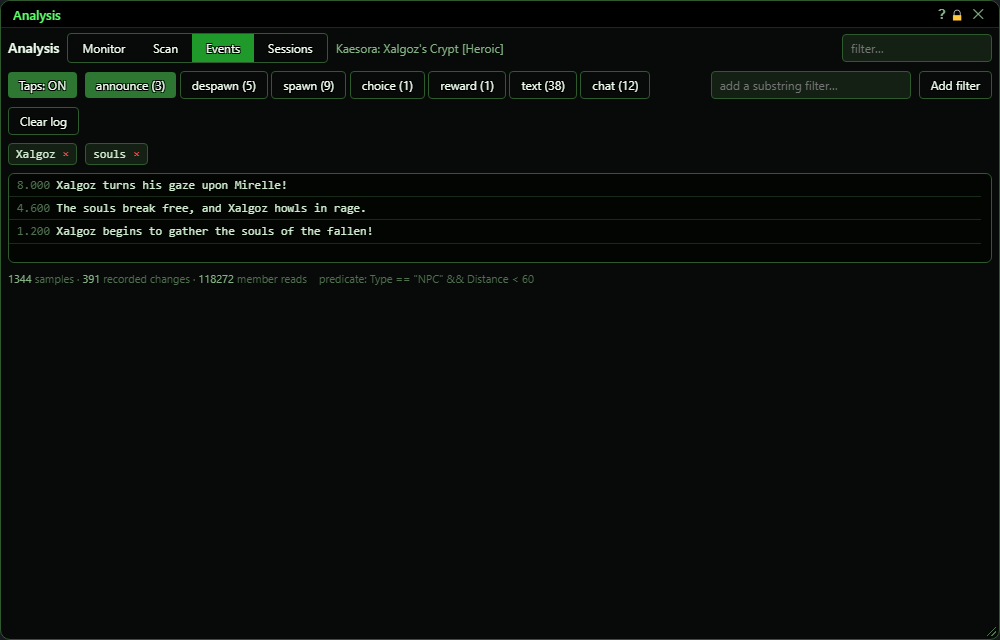
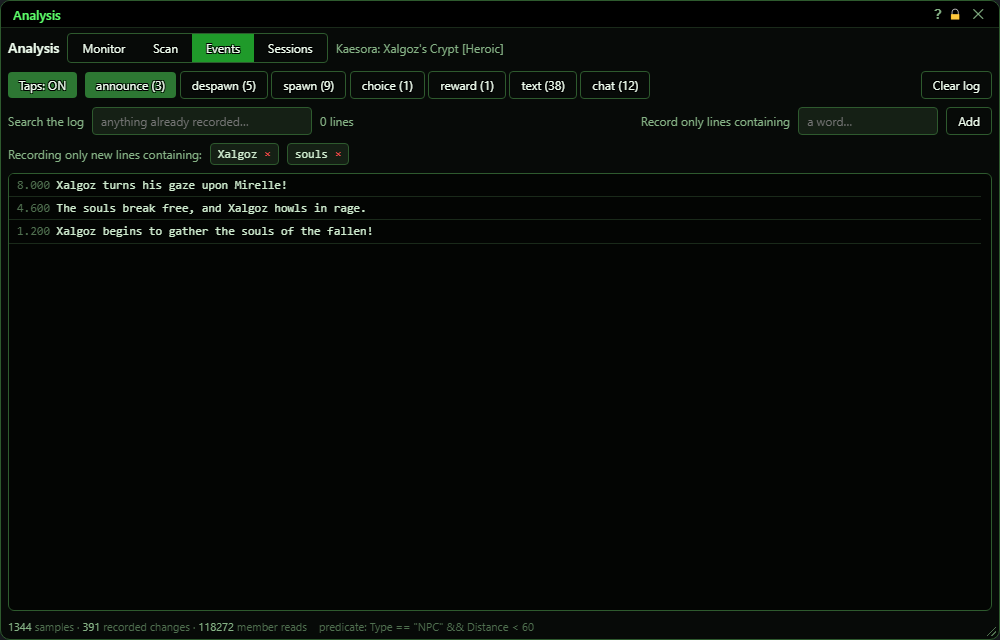
New OgreBot docs: publish the "OgreBot" section (EQ2/bot/)
Generated output from the private docs source (Scripts 7daebb8ca+uncommitted); linted for gated names, mkdocs build --strict and link check green.

diff --git a/docs/EQ2/bot/windows/analysis.md b/docs/EQ2/bot/windows/analysis.md
@@ -10,13 +10,16 @@
 >
 > **What you can do here**
 >
-> - **Monitor**: add actors (+ Target), turn **Monitoring** on, then click a moment in Timestamps to see everything that changed then. The x on an actor stops watching just that one.
-> - **Scan**: snapshot every actor matching your terms, then click two results to compare them.
-> - **Events**: logs of announcements, spawns, chat and other game events.
+> - **Monitor**: add actors (**+ Target**, or **+ Cursor** and put the mouse on one within 3 seconds), turn **Monitoring** on, then click a moment in Timestamps to see everything that changed then. The x on an actor stops watching just that one.
+> - **Scan**: build terms (type a detail name - it suggests them - pick how to compare, add a value), then **Scan**. Click a result to see all its details; Ctrl+click a second to compare the two. **+ Target** / **+ Cursor** put one actor in the results. **monitor** on a result sends it to the Monitor tab.
+> - **Events**: logs of announcements, spawns, chat and other game events. **Search the log** finds lines already recorded; **Record only lines containing** limits what is recorded from now on.
 > - **Sessions**: save what you recorded to a file, or load an earlier one.
 >
 > **Good to know**
 >
+> - Tick **Keep previous results** to add to the results instead of replacing them. **Add new spawns that match** adds actors as they appear.
+> - Pin a detail (the diamond) to show it as a column on every result.
+> - Right-click any line to copy it, copy all of an actor's details, or remove it. The x on a result or an actor removes just that one.
 > - Closing the window does not stop monitoring. Use `ogre end analysis`.
 > - **Taps** turns the event logs on and off.
 
@@ -47,8 +50,8 @@ Next to the tabs: the zone, scan progress while a scan runs, and the number of s
 | Control | What it does | Default |
 |---|---|---|
 | **Monitoring: ON / Monitoring: off** | Starts or stops recording the actors in the Actors list. While on, each one is read at the sample rate and every change is kept.<br>*Adding actors does not turn this on - press it after adding them.* | off |
-| **+ Target** | Adds your current target to the Actors list.<br>*Up to 24 actors. Nothing happens (a message in the console) with no target, or if it is already listed.* |  |
-| **+ Cursor** | Adds the actor under your mouse cursor to the Actors list.<br>*There is no countdown - see Open questions.* |  |
+| **+ Target** | Adds your current target to the Actors list.<br>*Up to 24 actors. With no target, or one already listed, the window says so in its warning line.* |  |
+| **+ Cursor** | Starts a 3-second countdown on the button ("Hover the actor... 3"); put the mouse on an actor, and when it ends that actor is added to the Actors list.<br>*If nothing is under the mouse when the countdown ends, the window says so.* |  |
 | **actor id (placeholder) + Add** | Adds an actor by its ID number. | empty |
 | **mechanics only** | Hides the always-changing details (location, heading, health, animation and the like) from the Timestamps list, so it shows only moments when something meaningful changed. Display only. | on |
 | **sample … ms** | How often each monitored actor is read, in milliseconds. Lower = finer detail.<br>*A plain text box: type a whole number from 100 to 10000 and press Enter or click away. Anything else puts the box back to the rate in use.* | 250 ms |
@@ -66,23 +69,36 @@ Work from left to right: pick an actor, then a detail or a moment.
 | **Click an actor (Actors list)** | Selects that actor. Its details fill the Members list and its moments fill Timestamps. |
 | **Click a detail (Members list)** | Shows every value that detail has had, with the time, in the History list. |
 | **Click a moment (Timestamps list)** | Fills 'What else changed at that instant' with every detail that changed at that moment. This is the main use of the tool - for example, what the NPC's animation and target were when it started a cast. |
+| **Right-click an actor or any line** | Copy this line; on an actor, Stop watching it. |
 
 ## Scan
 
-A scan takes a one-off snapshot of every actor matching your terms. It runs a little each frame, so a big scan takes a moment.
+Takes a snapshot of every actor that matches your terms - over 80 details each. Click a result to see all its details; Ctrl+click a second result to compare the two. Send any result to the Monitor tab.
 
 [![Scan](../assets/analysis/scan-bar.png)](../assets/analysis/scan-bar.png "Click for full size")
 
 | Control | What it does | Default |
 |---|---|---|
-| **member (e.g. Type) (placeholder)** | The detail to match on, for example Type, Name, Level, Distance, IsNamed.<br>*Must be spelled exactly as the game names it, or the scan fails with a red message.* | empty |
-| **= (the small box)** | How to compare: = (equals), < (less than) or > (more than). For yes/no details, != means 'is not'. | = |
-| **value (placeholder)** | The value to compare against, for example NPC or 60. | empty |
+| **member (e.g. Name) (placeholder)** | The detail to match on. As you type, a list of matching details appears with their kind (text, number, yes/no); click one, or use the arrow keys and Enter. | empty |
+| **contains / is / is not, = < > ≤ ≥ ≠, or TRUE / FALSE** | How to compare, offered to suit the detail: text matches by contains (any case), is, or is not; numbers by = < > ≤ ≥ ≠; a yes/no detail is just TRUE or FALSE, with no value box. | contains for text, = for numbers, TRUE for yes/no |
+| **value (placeholder)** | The value to compare against, for example guard or 60. Enter adds the term. | empty |
 | **Add term** | Adds the term to the list below the bar. All terms must match (they are combined with AND). |  |
 | **× (on a term)** | Removes that term. |  |
-| **Scan / Scan EVERYTHING** | Runs the scan and fills Results. With no terms the button turns red and reads 'Scan EVERYTHING' - pressing it snapshots every actor in the zone.<br>*At most 2000 actors are kept, and the list shows up to 250 of them.* |  |
-| **Clear** | Empties Results and the Diff. |  |
-| **Click two results** | Compares the two actors you clicked, detail by detail, in the Diff list. Only details that differ are shown. A third click starts a new pair. |  |
+| **+ Target** | Puts your current target in the results and shows its details, without changing the terms. |  |
+| **+ Cursor** | Starts a 3-second countdown; the actor under the mouse when it ends goes in the results. |  |
+| **Scan / Scan EVERYTHING** | Runs the scan. With no terms the button turns red and reads 'Scan EVERYTHING' - pressing it snapshots every actor in the zone.<br>*If the scan cannot run, the window says why: the zone has only just loaded (try again in a moment) or a term does not work.* |  |
+| **Clear** | Empties the results. |  |
+| **Keep previous results** | A scan adds to the results instead of replacing them. An actor already listed is updated. | off |
+| **Monitor every result** | Every actor a scan finds is also added to the Monitor tab (up to 24). | off |
+| **Add new spawns that match** | An actor that spawns and matches the terms joins the results about 2 seconds later. | off |
+| **Click a result / Ctrl+click a second** | A click shows every detail of that result on the right. Ctrl+click (or Shift+click) another result compares the two, showing only the details that differ.<br>*The results line shows name, ID, type, level, health and distance, plus any columns you pinned. A line marked monitored is on the Monitor tab. Underneath the count, the window says how many actors could not be read (they despawned during the scan).* |  |
+| **monitor / × (on a result)** | monitor sends that actor to the Monitor tab; × removes it from the results. |  |
+| **Monitor all** | Sends every result to the Monitor tab, up to 24. |  |
+| **Refresh / Monitor (above the details)** | Refresh reads that actor again now. Monitor sends it to the Monitor tab. The line also says how long ago it was read, and 'no longer here' if it has gone. |  |
+| **filter members… + show empty** | Narrows the details shown by name or value. Empty details (blank, 0, FALSE) are hidden unless show empty is ticked. | show empty off |
+| **◇ / ◆ (on a detail)** | Shows that detail as a column on every result line (◆ = shown). The columns are listed on the bar above the results, each with an × to remove it. |  |
+| **Stop comparing** | Goes back from a comparison to the selected result's details. |  |
+| **Right-click a result or a detail** | Copy this line, Copy all its details (every detail of that result, one per line), Monitor it, or Remove from the results. |  |
 
 ## Events
 
@@ -94,9 +110,11 @@ Seven logs of game events: announce (big on-screen messages), despawn, spawn, ch
 |---|---|---|
 | **Taps: ON / Taps: off** | Switches the event logs on and off. It reads 'Taps: ON' while they are recording. | off (the button still says ON) |
 | **announce / despawn / spawn / choice / reward / text / chat (n)** | Picks which log is shown below. The number is how many lines it holds. | announce |
-| **add a substring filter… + Add filter** | Once any filter is set, only new lines that contain one of the filters are recorded (not case-sensitive). Applies to all seven logs.<br>*Lines already recorded are not removed.* | none (everything is recorded) |
+| **Search the log** | Shows only the recorded lines that contain what you type (any case), searching everything already recorded in the log shown - use it any time, after the fact. The count beside it says how many lines match.<br>*The same search as the filter box at the top of the other tabs (that box is hidden on this tab).* | empty |
+| **Record only lines containing + Add** | From now on, a NEW line is recorded only if it contains one of these words (any case). It works before the fact: lines already in the log are not touched. Applies to all seven logs.<br>*Lines already recorded are not removed.* | none (everything is recorded) |
 | **× (on a filter)** | Removes that filter. |  |
 | **Clear log** | Empties the log that is shown. The other logs are kept. |  |
+| **Right-click a line** | Copy this line, or Copy all the lines shown (the log shown, with the search applied). |  |
 
 ## Sessions
 
@@ -122,11 +140,13 @@ Seven logs of game events: announce (big on-screen messages), despawn, spawn, ch
 
 ## Good to know
 
-- Monitoring only reads actors the bot can currently see in the zone. If every list stays empty, the actor has despawned or the ID is from another zone - the console says so.
+- Monitoring only reads actors the bot can currently see in the zone. If every list stays empty, the actor has despawned or the ID is from another zone - the window says so.
 - Actor IDs are reused between zones, so a monitored ID from an old zone can point at a different actor now.
 - Closing the window does not stop monitoring or the event logs.
 - Turning monitoring or the event logs on (from anywhere) opens this window.
 - Everything is kept in memory only until you Export it.
+- Problems now show in the warning line under the tabs, not only in the console.
+- The right-click menu's own Copy only copies text you have selected; use Copy this line (or the copy items under it) to copy a row.
 
 ### Scan tab
 

diff --git a/docs/EQ2/bot/whats-new.md b/docs/EQ2/bot/whats-new.md
@@ -10,6 +10,13 @@ A release is named by the day it was published and its number that day: **2026.1
 
 Dates and times are US Eastern time (EST in winter, EDT in summer).
 
+## 2026.10.19.006 {#r2026-10-19-006}
+
+*Monday, October 19, 2026 at 10:46 PM EDT*
+
+- **Fixed** · Windows: **Analysis - + Target and + Cursor work, and the Scan tab shows every detail.** In ogre analysis, + Target and + Cursor now add the actor (+ Cursor gives you 3 seconds to put the mouse on it), and both are on the Scan tab too. Clicking a scan result shows all its details, a result can be sent to the Monitor tab, and scans can keep earlier results, add new spawns that match, and show chosen details as columns. Terms suggest detail names and offer the comparisons that suit them, and a scan that cannot run says why.
+- **Fixed** · Windows: **Analysis - copy and remove rows, and search the event logs after the fact.** In ogre analysis, the x that removes a scan result or a monitored actor can now actually be clicked; long rows used to cover it. Right-click any line to copy it, copy all of an actor's details, or remove it. On the Events tab, Search the log looks through everything already recorded (it used to miss older lines), and Record only lines containing is clearly the filter for what gets recorded from now on.
+
 ## 2026.10.19.005 {#r2026-10-19-005}
 
 *Monday, October 19, 2026 at 8:07 PM EDT*
